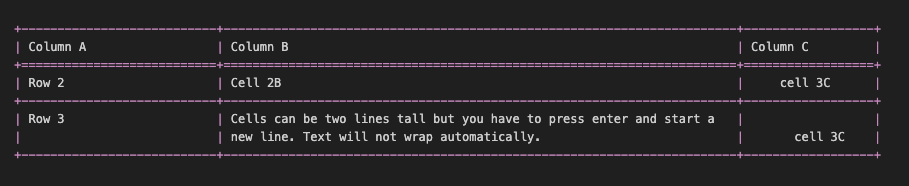
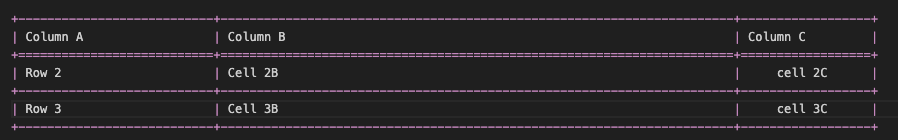
edit documentation

diff --git a/docs/source/other_services/writing_documentation.rst b/docs/source/other_services/writing_documentation.rst
@@ -18,18 +18,6 @@ Your document must begin with a heading. The heading will appear as the page's n
 * Subheadings appear with hyphens (-) in the rows immediately above and below the text of the subheading. Both rows of hyphens must be the same length.
 * Third-level headings appear with equal signs (=) in the row immediately below the text of the third-level heading.
 
-=================
-This is the format for a heading.
-=================
-
------------------
-This is the format for a subheading.
------------------
-
-
-This is the format for a third-level heading.
-=========================
-
 .. image:: ../../_static/images/headings.png
     :alt: Screenshot of heading formatting
 
@@ -126,7 +114,7 @@ Similar to a code block, you will write the line :code:`.. raw:: html"`. In the 
 
 
 
-.. image:: ../../_static/images/code-block.png
+.. image:: ../../_static/images/google-doc.png
     :alt: Screenshot of code to add a google doc
 
 
@@ -140,10 +128,9 @@ Use the following format. Make sure everything is aligned exactly.
 +---------------------------+-----------------------------------------------------------------------+------------------+
 | Column A                  | Column B                                                              | Column C         |
 +===========================+=======================================================================+==================+
-| Row 2                     | Cell 2B                                                               |     cell 3C      |                      
+| Row 2                     | Cell 2B                                                               |     cell 2C      |                      
 +---------------------------+-----------------------------------------------------------------------+------------------+
-| Row 3                     | Cells can be two lines tall but you have to press enter and start a   |                  |                                   
-|                           | new line. Text will not wrap automatically.                           |       cell 3C    |              
+| Row 3                     | Cell 3B                                                               |     cell 3C      |                                                
 +---------------------------+-----------------------------------------------------------------------+------------------+
 
 .. image:: ../../_static/images/table.png
